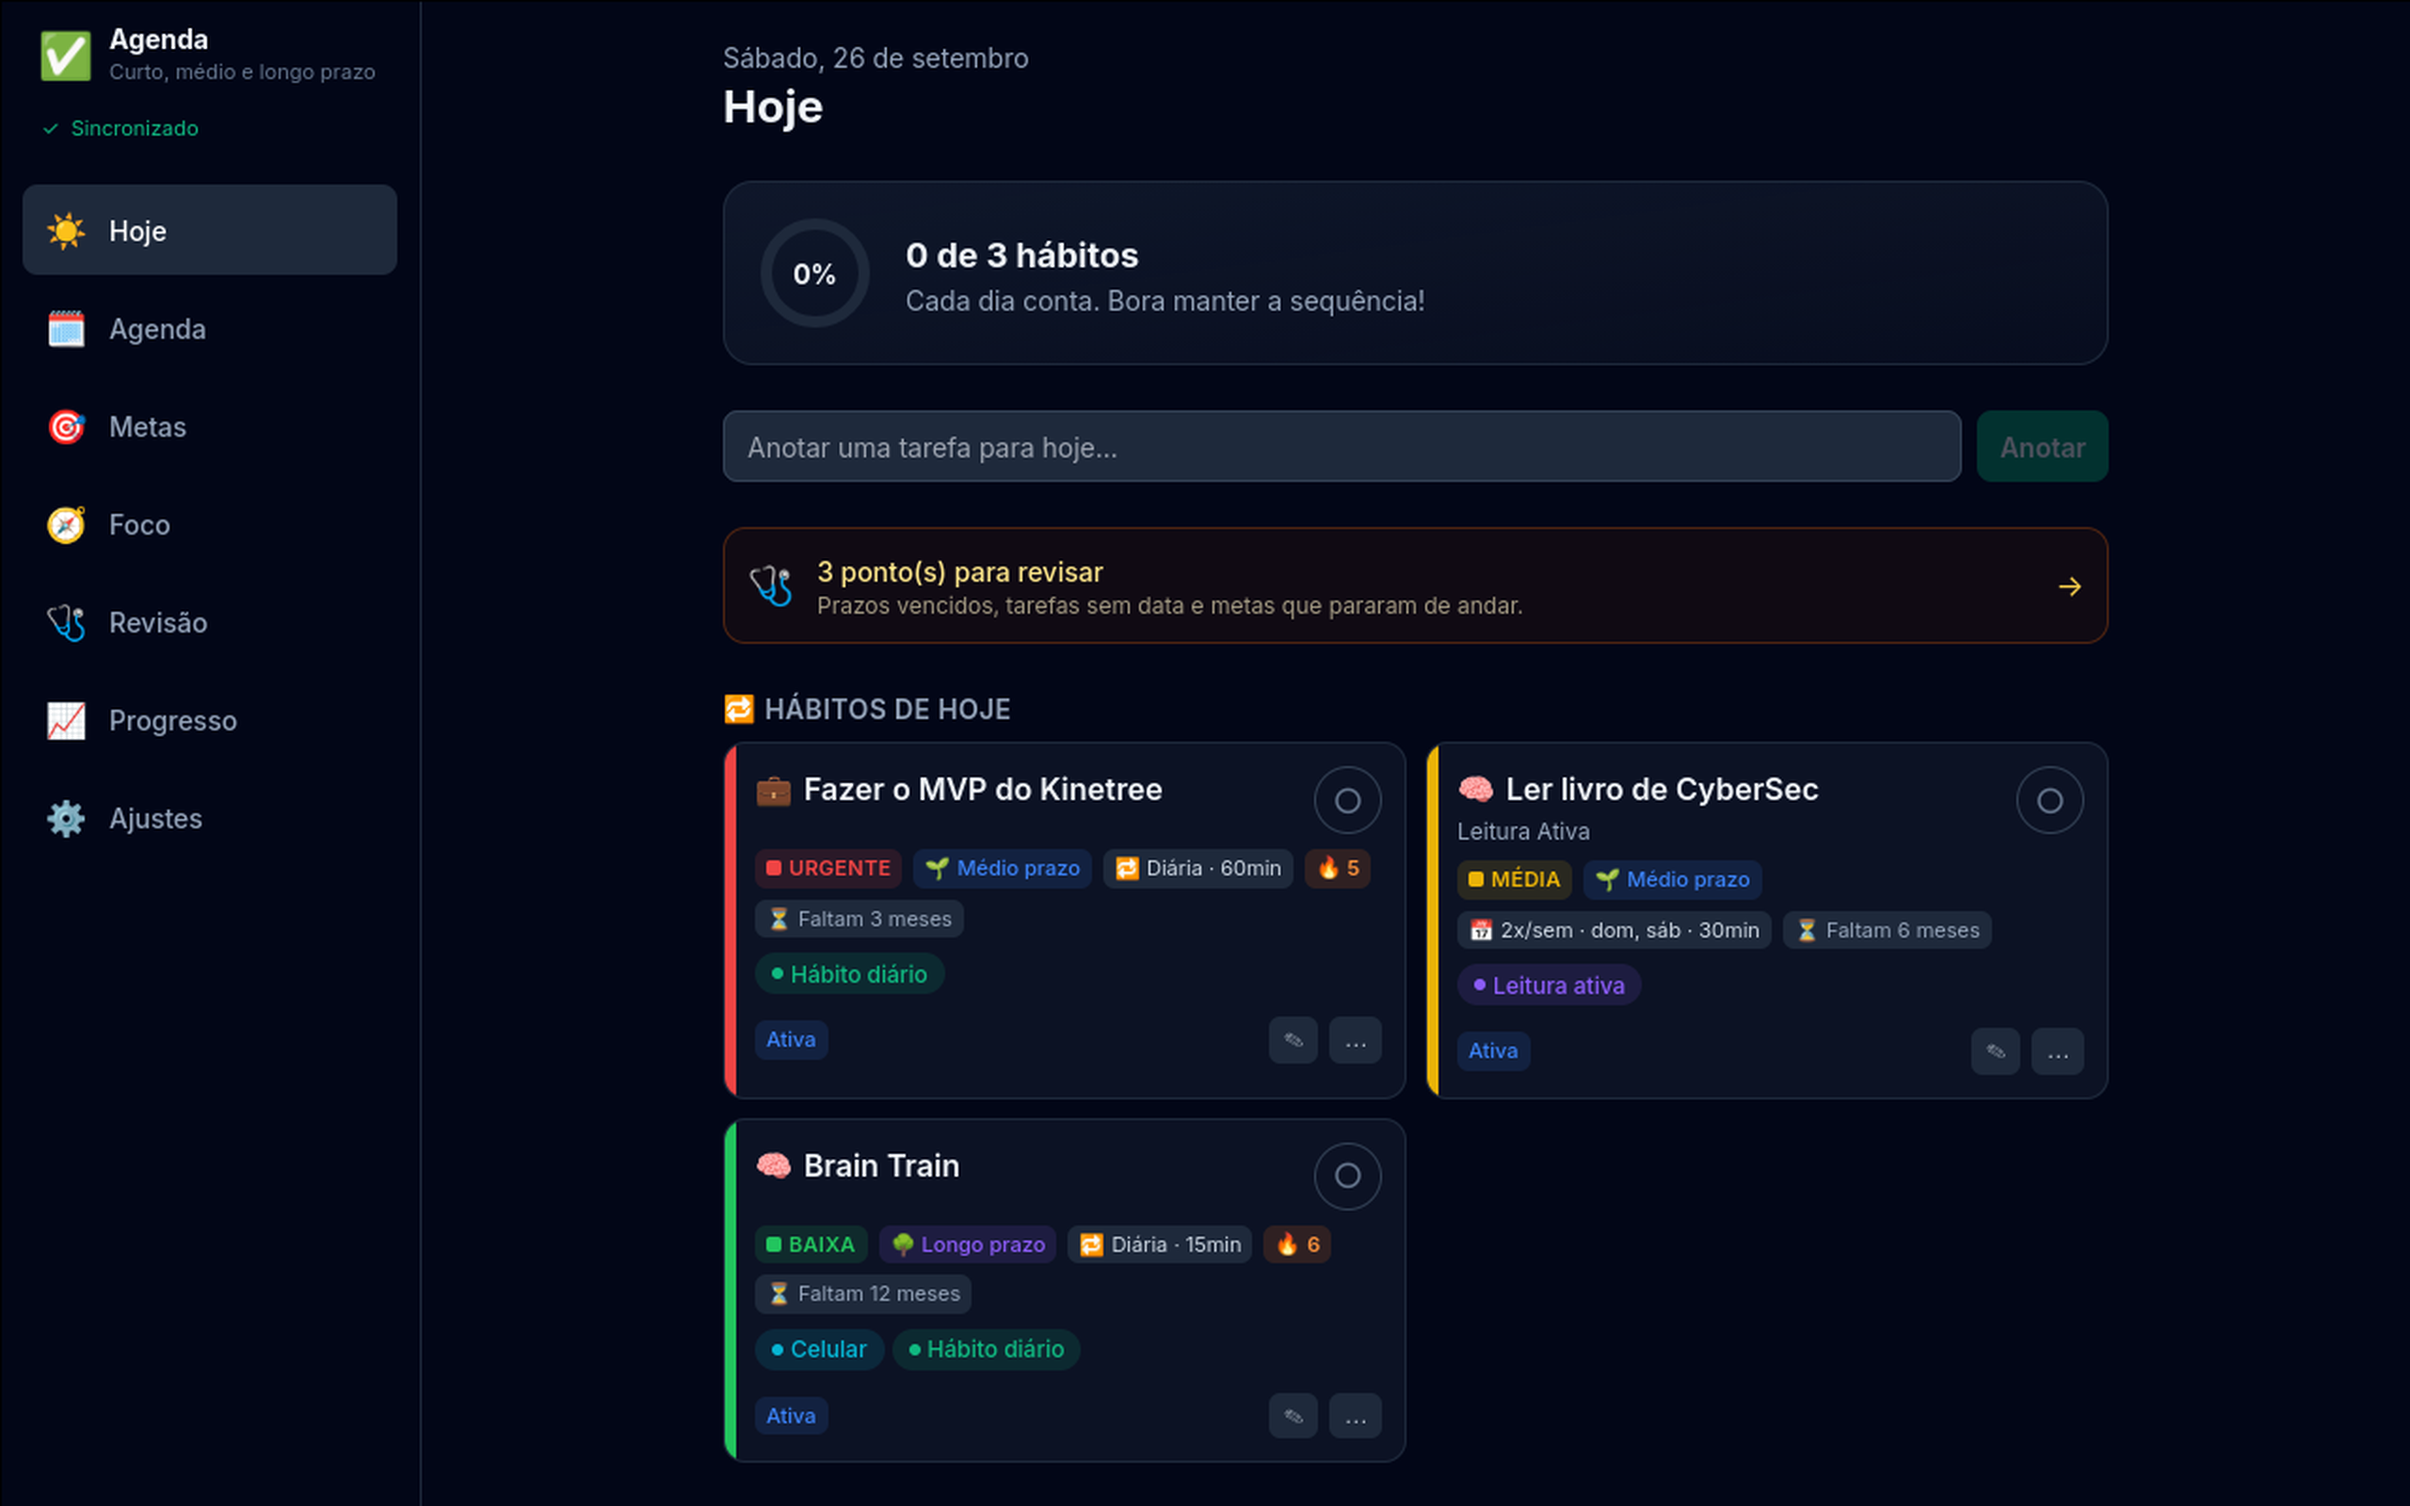
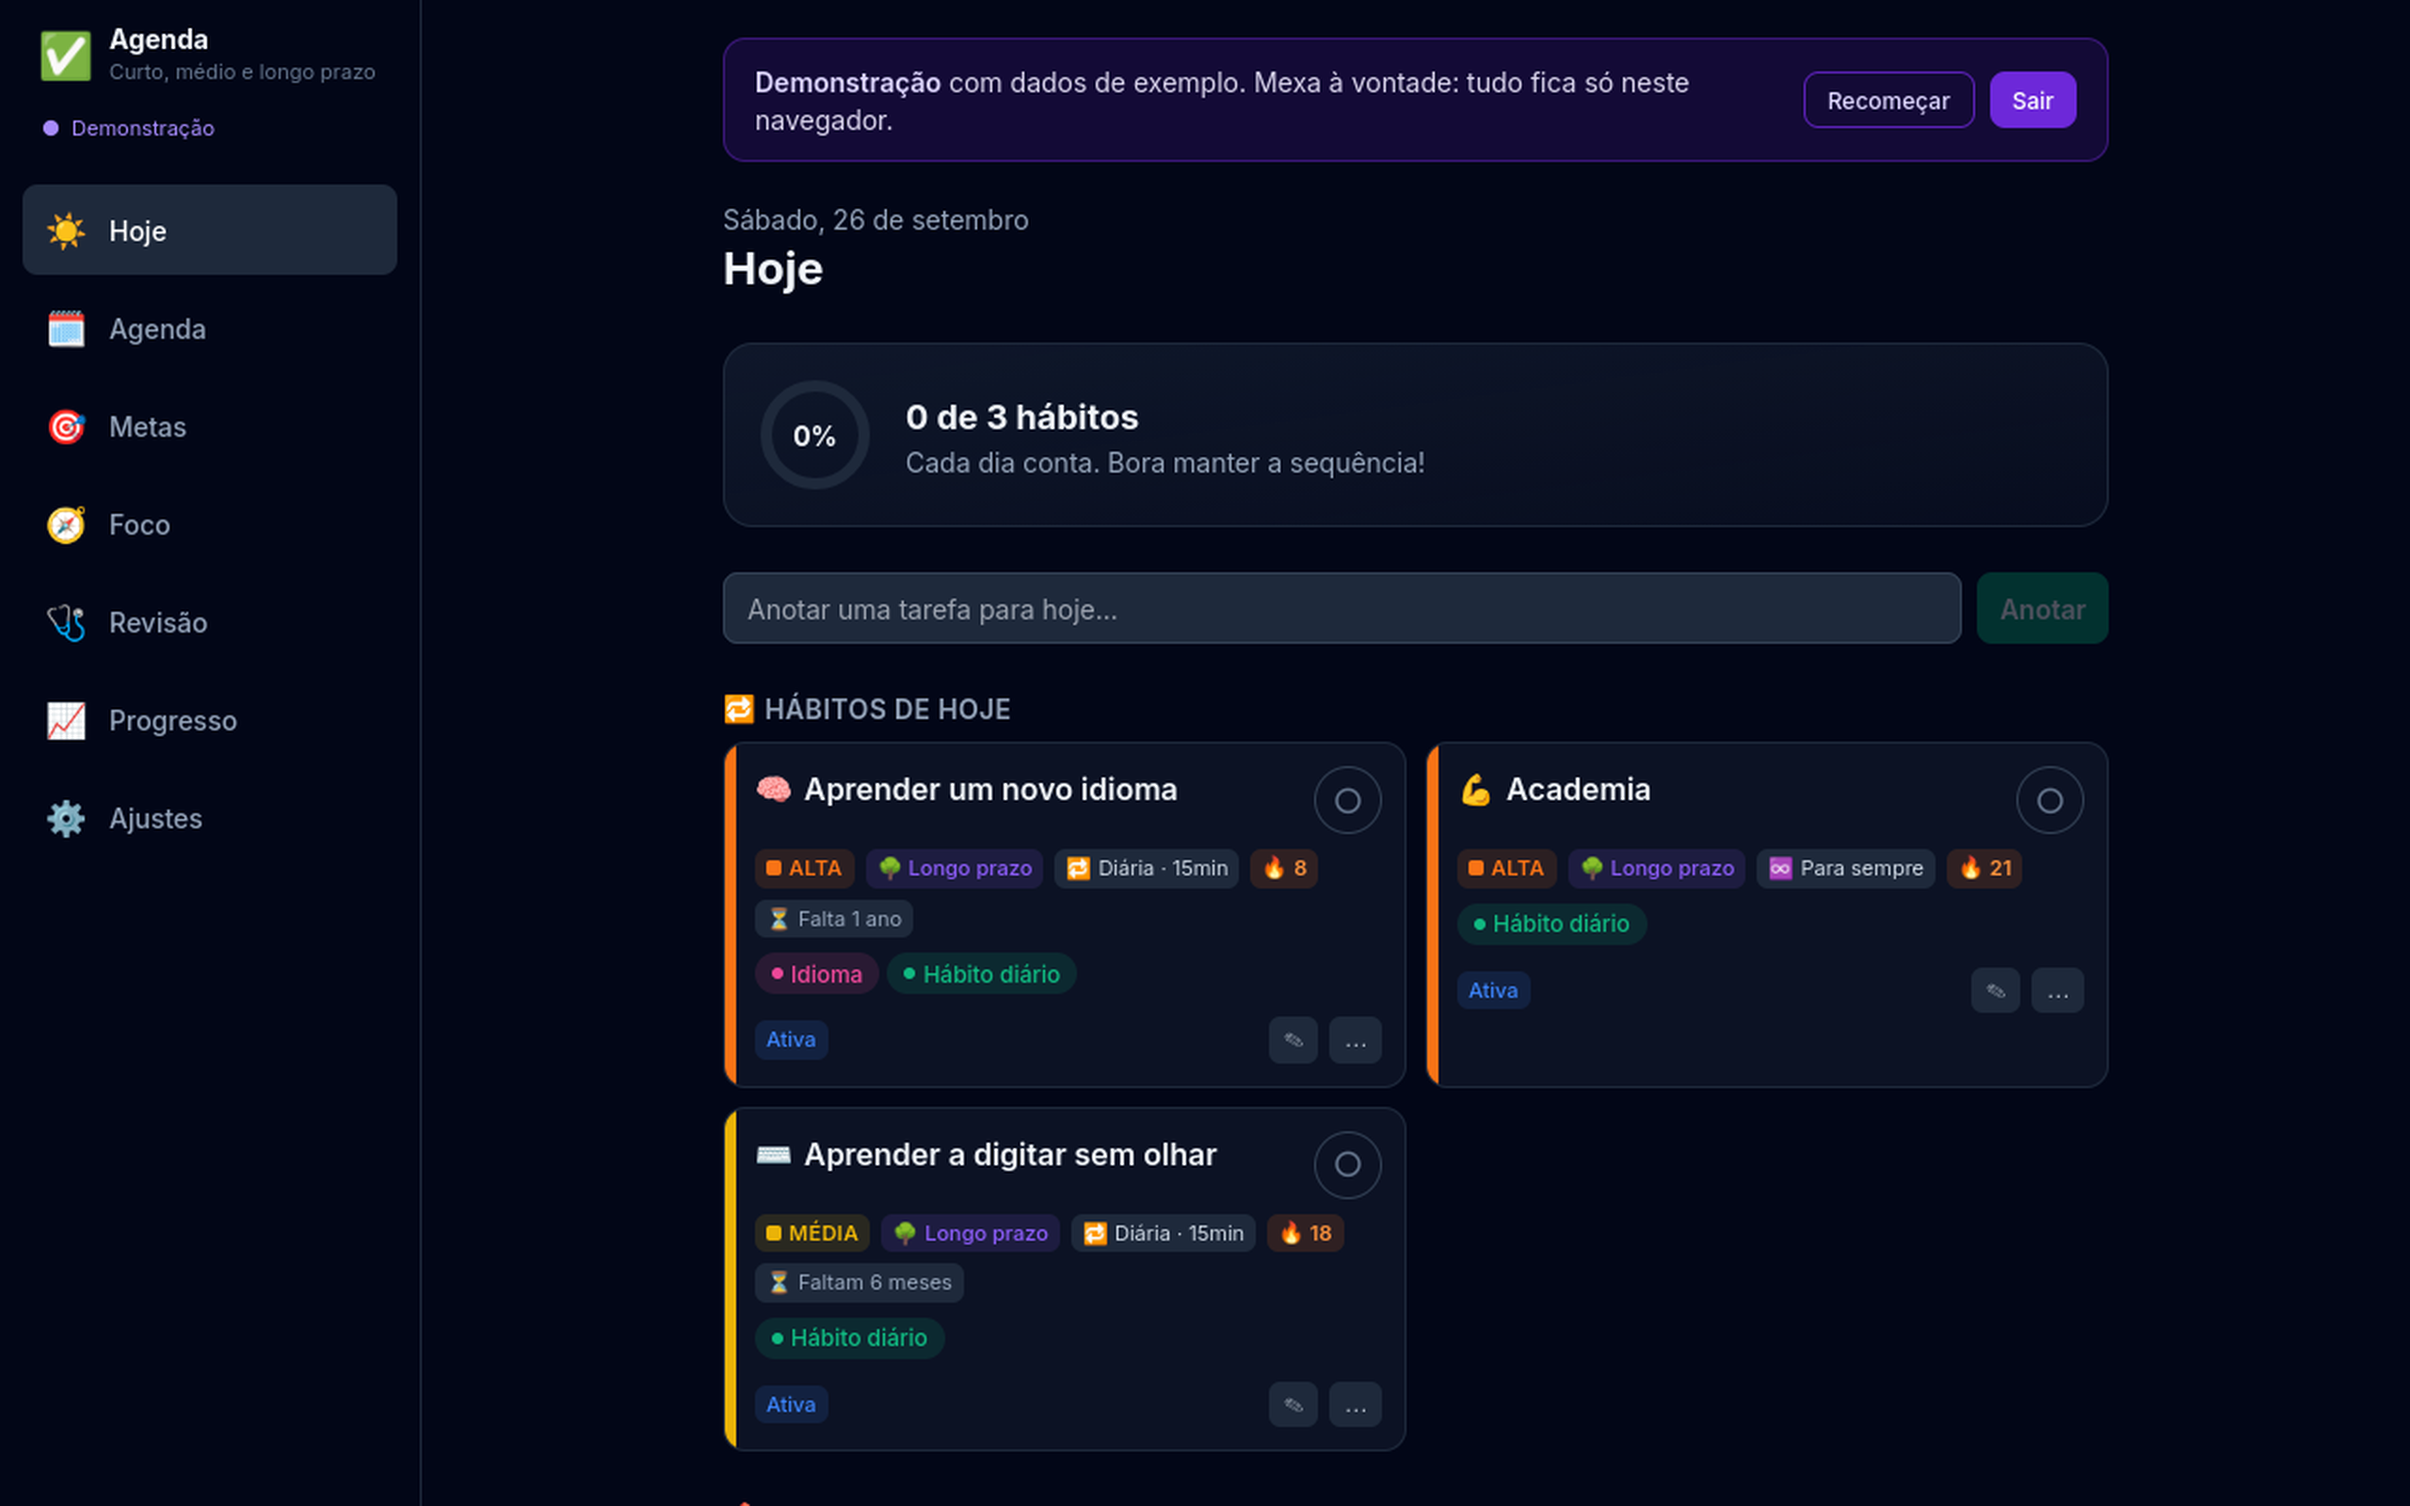
Point the Agenda card to its live demo

diff --git a/data/portfolio.ts b/data/portfolio.ts
@@ -94,7 +94,7 @@ export const projects: Project[] = [
     category: "PWA / Productivity",
     image: "/agenda.png",
     technologies: ["React", "TypeScript", "Supabase", "Zustand", "PWA"],
-    link: "https://agenda-danilo.vercel.app",
+    link: "https://agenda-danilo.vercel.app/?demo",
     github: "https://github.com/its-danilo/agenda",
     featured: true,
   },
